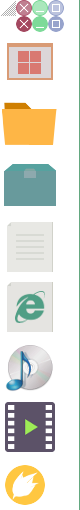
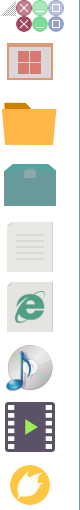
windows improved

Changed region(s): [[0.05, 0.9118, 0.625, 1.0]]

diff --git a/assets/js/desk-window.js b/assets/js/desk-window.js
@@ -1969,6 +1969,7 @@ DashWindow.prototype.createToolbar = function() {
                     }
                     this.body_view_list = false;
                     this.updateSidebarResizerSize();
+                    this.fixBodyItemsImages();
                     $(this.content).scrollTop(0);
                 }
             },{
@@ -1983,6 +1984,7 @@ DashWindow.prototype.createToolbar = function() {
                     }
                     this.body_view_list = true;
                     this.updateSidebarResizerSize();
+                    this.fixBodyItemsImages();
                     $(this.content).scrollTop(0);
                 }
             }
@@ -2414,46 +2416,77 @@ DashWindow.prototype.createBodyItems = function(elements) {
 };
 
 DashWindow.prototype.initBodyItemsImages = function() {
+    var wnd = this;
     $(this.content).find('img.'+this.body_item_images_class).each(function(){
         var image = this;
         var src = $(image).data('src');
-        $(this).unbind('load').load(function() {
+        $(this).unbind('load').load(wnd.bind(wnd, function() {
             $(image).css('opacity',1);
-            try {
-                var cw = $(image).width();
-                var ch = $(image).height();
-                var nw = $(image).get(0).naturalWidth;
-                var nh = $(image).get(0).naturalHeight;
-                var w, h, m;
-                if (cw/ch != nw/nh) {
-                    if (cw/ch < nw/nh) {
-                        w = cw;
-                        h = w * nh/nw;
-                        m = (ch - h) / 2;
-                        $(image).css({
-                            'width': w,
-                            'height': h,
-                            'marginTop': m,
-                            'marginBottom': m
-                        });
-                    } else {
-                        h = ch;
-                        w = h * nw/nh;
-                        m = (cw - w) / 2;
-                        $(image).css({
-                            'width': w,
-                            'height': h,
-                            'marginLeft': m,
-                            'marginRight': m,
-                        });
-                    }
-
-                }
-            } catch(err) {}
-        });
+            this.fixBodyItemsImage(image);
+        }));
+        $(image).css('transition','opacity .4s ease');
         $(image).css('opacity',0);
         $(image).attr('src', src);
     });
+};
+
+DashWindow.prototype.fixBodyItemsImages = function(image) {
+    var wnd = this;
+    $(this.content).find('img.'+this.body_item_images_class).each(function(){
+        wnd.fixBodyItemsImage(this);
+    });
+};
+
+DashWindow.prototype.fixBodyItemsImage = function(image) {
+    try {
+        $(image).css({
+            width: '',
+            height: ''
+        });
+        
+        var cw = $(image).width();
+        var ch = $(image).height();
+        var nw = $(image).get(0).naturalWidth;
+        var nh = $(image).get(0).naturalHeight;
+        
+        var wnd_body_item_image_fix_left = 8;
+        var wnd_body_item_image_fix_right = 8;
+        var wnd_body_item_image_fix_top = 8;
+        var wnd_body_item_image_fix_bottom = 8;
+        
+        if (this.body_view_list) {
+            wnd_body_item_image_fix_left = 2;
+            wnd_body_item_image_fix_right = 8;
+            wnd_body_item_image_fix_top = 0;
+            wnd_body_item_image_fix_bottom = 0;
+        }
+        
+        var w, h, m;
+        if (cw/ch != nw/nh) {
+            if (cw/ch < nw/nh) {
+                w = cw;
+                h = w * nh/nw;
+                m = (ch - h) / 2;
+                $(image).css({
+                    'width': w,
+                    'height': h,
+                    'marginTop': m+wnd_body_item_image_fix_top,
+                    'marginBottom': m+wnd_body_item_image_fix_bottom
+                });
+            } else {
+                h = ch;
+                w = h * nw/nh;
+                m = (cw - w) / 2;
+                $(image).css({
+                    'width': w,
+                    'height': h,
+                    'marginLeft': m+wnd_body_item_image_fix_left,
+                    'marginRight': m+wnd_body_item_image_fix_right
+                });
+            }
+
+        }
+    } catch(err) {}
 };
 
 DashWindow.prototype.bindBodyItemsCallbacks = function(elements) {

diff --git a/themes/bulaksu/assets/css/desk.css b/themes/bulaksu/assets/css/desk.css
@@ -639,7 +639,7 @@ body.dashboard-window-sidebar-resizing {
 .dashboard-window .dashboard-window-content .dashboard-body-content-wrapper ul.dashwindow-content-grid li a:link,
 .dashboard-window .dashboard-window-content .dashboard-body-content-wrapper ul.dashwindow-content-grid li a:visited {
     display: block;
-    padding: 13px;
+    padding: 5px;
     width: 86px;
     text-overflow: ellipsis;
     white-space: nowrap;
@@ -664,6 +664,7 @@ body.dashboard-window-sidebar-resizing {
     width: 60px;
     height: 60px;
     border: none;
+    margin: 8px;
 }
 .dashboard-window .dashboard-window-content .dashboard-body-content-wrapper ul.dashwindow-content-list li {
     display: block;
@@ -686,7 +687,7 @@ body.dashboard-window-sidebar-resizing {
 .dashboard-window .dashboard-window-content .dashboard-body-content-wrapper ul.dashwindow-content-list li img,
 .dashboard-window .dashboard-window-content .dashboard-body-content-wrapper ul.dashwindow-content-list .dashwindow-content-icon {
     float: left;
-    margin-right: 10px;
+    margin: 0px 10px 0px 0px;
 }
 .dashboard-window .dashboard-window-content .dashboard-body-content-wrapper ul.dashwindow-content-list li.dashwindow-content-column-row a:link,
 .dashboard-window .dashboard-window-content .dashboard-body-content-wrapper ul.dashwindow-content-list li.dashwindow-content-column-row a:visited {
@@ -725,7 +726,7 @@ body.dashboard-window-sidebar-resizing {
     background-position: 0px -397px;
 }
 .dashboard-window .dashboard-window-content .dashboard-body-content-wrapper .dashwindow-content-icon-zira {
-    background-position: 0px -456px;
+    background-position: 0px -454px;
 }
 .dashboard-window .dashboard-window-content .dashboard-body-content-wrapper .dashwindow-content-icon-blank {
     background: none;

diff --git a/themes/dark/assets/css/desk.css b/themes/dark/assets/css/desk.css
@@ -639,7 +639,7 @@ body.dashboard-window-sidebar-resizing {
 .dashboard-window .dashboard-window-content .dashboard-body-content-wrapper ul.dashwindow-content-grid li a:link,
 .dashboard-window .dashboard-window-content .dashboard-body-content-wrapper ul.dashwindow-content-grid li a:visited {
     display: block;
-    padding: 13px;
+    padding: 5px;
     width: 86px;
     text-overflow: ellipsis;
     white-space: nowrap;
@@ -664,6 +664,7 @@ body.dashboard-window-sidebar-resizing {
     width: 60px;
     height: 60px;
     border: none;
+    margin: 8px;
 }
 .dashboard-window .dashboard-window-content .dashboard-body-content-wrapper ul.dashwindow-content-list li {
     display: block;
@@ -686,7 +687,7 @@ body.dashboard-window-sidebar-resizing {
 .dashboard-window .dashboard-window-content .dashboard-body-content-wrapper ul.dashwindow-content-list li img,
 .dashboard-window .dashboard-window-content .dashboard-body-content-wrapper ul.dashwindow-content-list .dashwindow-content-icon {
     float: left;
-    margin-right: 10px;
+    margin: 0px 10px 0px 0px;
 }
 .dashboard-window .dashboard-window-content .dashboard-body-content-wrapper ul.dashwindow-content-list li.dashwindow-content-column-row a:link,
 .dashboard-window .dashboard-window-content .dashboard-body-content-wrapper ul.dashwindow-content-list li.dashwindow-content-column-row a:visited {
@@ -725,7 +726,7 @@ body.dashboard-window-sidebar-resizing {
     background-position: 0px -397px;
 }
 .dashboard-window .dashboard-window-content .dashboard-body-content-wrapper .dashwindow-content-icon-zira {
-    background-position: 0px -456px;
+    background-position: 0px -454px;
 }
 .dashboard-window .dashboard-window-content .dashboard-body-content-wrapper .dashwindow-content-icon-blank {
     background: none;

diff --git a/themes/default/assets/css/desk.css b/themes/default/assets/css/desk.css
@@ -632,7 +632,7 @@ body.dashboard-window-sidebar-resizing {
 .dashboard-window .dashboard-window-content .dashboard-body-content-wrapper ul.dashwindow-content-grid li a:link,
 .dashboard-window .dashboard-window-content .dashboard-body-content-wrapper ul.dashwindow-content-grid li a:visited {
     display: block;
-    padding: 13px;
+    padding: 5px;
     width: 86px;
     text-overflow: ellipsis;
     white-space: nowrap;
@@ -657,6 +657,7 @@ body.dashboard-window-sidebar-resizing {
     width: 60px;
     height: 60px;
     border: none;
+    margin: 8px;
 }
 .dashboard-window .dashboard-window-content .dashboard-body-content-wrapper ul.dashwindow-content-list li {
     display: block;
@@ -679,7 +680,7 @@ body.dashboard-window-sidebar-resizing {
 .dashboard-window .dashboard-window-content .dashboard-body-content-wrapper ul.dashwindow-content-list li img,
 .dashboard-window .dashboard-window-content .dashboard-body-content-wrapper ul.dashwindow-content-list .dashwindow-content-icon {
     float: left;
-    margin-right: 10px;
+    margin: 0px 10px 0px 0px;
 }
 .dashboard-window .dashboard-window-content .dashboard-body-content-wrapper ul.dashwindow-content-list li.dashwindow-content-column-row a:link,
 .dashboard-window .dashboard-window-content .dashboard-body-content-wrapper ul.dashwindow-content-list li.dashwindow-content-column-row a:visited {
@@ -718,7 +719,7 @@ body.dashboard-window-sidebar-resizing {
     background-position: 0px -397px;
 }
 .dashboard-window .dashboard-window-content .dashboard-body-content-wrapper .dashwindow-content-icon-zira {
-    background-position: 0px -456px;
+    background-position: 0px -454px;
 }
 .dashboard-window .dashboard-window-content .dashboard-body-content-wrapper .dashwindow-content-icon-blank {
     background: none;

diff --git a/themes/bulaksu/zira/widgets/carousel.php b/themes/bulaksu/zira/widgets/carousel.php
@@ -3,16 +3,13 @@
 <?php if (!empty($title)): ?>
 <h2><?php echo Zira\Helper::html($title) ?></h2>
 <?php endif; ?>
+<?php $id = uniqid('carousel_'); ?>
 <ul class="carousel<?php if (!empty($sidebar)) echo ' carousel-small'; ?>">
 <?php foreach($images as $index=>$image): ?>
 <li>
-<?php if (!empty($links[$index])): ?>
-<a href="<?php echo Zira\Helper::html(Zira\Menu::parseURL($links[$index])); ?>" title="<?php echo !empty($descriptions[$index]) ? Zira\Helper::html($descriptions[$index]) : '' ?>">
-<?php endif; ?>
-<img class="image<?php if (empty($links[$index])) echo ' zira-lightbox'; ?>" src="<?php echo Zira\Helper::baseUrl(Zira\Image::getCustomThumbUrl($image, Zira\Config::get('carousel_thumbs_width', Zira\Config::get('thumbs_width')), Zira\Config::get('carousel_thumbs_height', Zira\Config::get('thumbs_height')))) ?>" title="<?php echo !empty($descriptions[$index]) ? Zira\Helper::html($descriptions[$index]) : '' ?>" alt="<?php echo !empty($descriptions[$index]) ? Zira\Helper::html($descriptions[$index]) : '' ?>" />
-<?php if (!empty($links[$index])): ?>
+<a href="<?php echo !empty($links[$index]) ? Zira\Helper::html(Zira\Menu::parseURL($links[$index])) : Zira\Helper::baseUrl(zira\Helper::urlencode($image)); ?>" title="<?php echo !empty($descriptions[$index]) ? Zira\Helper::html($descriptions[$index]) : '' ?>"<?php if (empty($links[$index])) echo ' data-lightbox="'.Zira\Helper::html($id).'"'; ?>>
+<img class="image" src="<?php echo Zira\Helper::baseUrl(Zira\Image::getCustomThumbUrl($image, Zira\Config::get('carousel_thumbs_width', Zira\Config::get('thumbs_width')), Zira\Config::get('carousel_thumbs_height', Zira\Config::get('thumbs_height')))) ?>" title="<?php echo !empty($descriptions[$index]) ? Zira\Helper::html($descriptions[$index]) : '' ?>" alt="<?php echo !empty($descriptions[$index]) ? Zira\Helper::html($descriptions[$index]) : '' ?>" />
 </a>
-<?php endif; ?>
 </li>
 <?php endforeach; ?>
 </ul>

diff --git a/themes/dark/zira/widgets/carousel.php b/themes/dark/zira/widgets/carousel.php
@@ -3,16 +3,13 @@
 <?php if (!empty($title)): ?>
 <h2><?php echo Zira\Helper::html($title) ?></h2>
 <?php endif; ?>
+<?php $id = uniqid('carousel_'); ?>
 <ul class="carousel<?php if (!empty($sidebar)) echo ' carousel-small'; ?>">
 <?php foreach($images as $index=>$image): ?>
 <li>
-<?php if (!empty($links[$index])): ?>
-<a href="<?php echo Zira\Helper::html(Zira\Menu::parseURL($links[$index])); ?>" title="<?php echo !empty($descriptions[$index]) ? Zira\Helper::html($descriptions[$index]) : '' ?>">
-<?php endif; ?>
-<img class="image<?php if (empty($links[$index])) echo ' zira-lightbox'; ?>" src="<?php echo Zira\Helper::baseUrl(Zira\Image::getCustomThumbUrl($image, Zira\Config::get('carousel_thumbs_width', Zira\Config::get('thumbs_width')), Zira\Config::get('carousel_thumbs_height', Zira\Config::get('thumbs_height')))) ?>" title="<?php echo !empty($descriptions[$index]) ? Zira\Helper::html($descriptions[$index]) : '' ?>" alt="<?php echo !empty($descriptions[$index]) ? Zira\Helper::html($descriptions[$index]) : '' ?>" />
-<?php if (!empty($links[$index])): ?>
+<a href="<?php echo !empty($links[$index]) ? Zira\Helper::html(Zira\Menu::parseURL($links[$index])) : Zira\Helper::baseUrl(zira\Helper::urlencode($image)); ?>" title="<?php echo !empty($descriptions[$index]) ? Zira\Helper::html($descriptions[$index]) : '' ?>"<?php if (empty($links[$index])) echo ' data-lightbox="'.Zira\Helper::html($id).'"'; ?>>
+<img class="image" src="<?php echo Zira\Helper::baseUrl(Zira\Image::getCustomThumbUrl($image, Zira\Config::get('carousel_thumbs_width', Zira\Config::get('thumbs_width')), Zira\Config::get('carousel_thumbs_height', Zira\Config::get('thumbs_height')))) ?>" title="<?php echo !empty($descriptions[$index]) ? Zira\Helper::html($descriptions[$index]) : '' ?>" alt="<?php echo !empty($descriptions[$index]) ? Zira\Helper::html($descriptions[$index]) : '' ?>" />
 </a>
-<?php endif; ?>
 </li>
 <?php endforeach; ?>
 </ul>

diff --git a/themes/default/zira/widgets/carousel.php b/themes/default/zira/widgets/carousel.php
@@ -3,16 +3,13 @@
 <?php if (!empty($title)): ?>
 <h2><?php echo Zira\Helper::html($title) ?></h2>
 <?php endif; ?>
+<?php $id = uniqid('carousel_'); ?>
 <ul class="carousel<?php if (!empty($sidebar)) echo ' carousel-small'; ?>">
 <?php foreach($images as $index=>$image): ?>
 <li>
-<?php if (!empty($links[$index])): ?>
-<a href="<?php echo Zira\Helper::html(Zira\Menu::parseURL($links[$index])); ?>" title="<?php echo !empty($descriptions[$index]) ? Zira\Helper::html($descriptions[$index]) : '' ?>">
-<?php endif; ?>
-<img class="image<?php if (empty($links[$index])) echo ' zira-lightbox'; ?>" src="<?php echo Zira\Helper::baseUrl(Zira\Image::getCustomThumbUrl($image, Zira\Config::get('carousel_thumbs_width', Zira\Config::get('thumbs_width')), Zira\Config::get('carousel_thumbs_height', Zira\Config::get('thumbs_height')))) ?>" title="<?php echo !empty($descriptions[$index]) ? Zira\Helper::html($descriptions[$index]) : '' ?>" alt="<?php echo !empty($descriptions[$index]) ? Zira\Helper::html($descriptions[$index]) : '' ?>" />
-<?php if (!empty($links[$index])): ?>
+<a href="<?php echo !empty($links[$index]) ? Zira\Helper::html(Zira\Menu::parseURL($links[$index])) : Zira\Helper::baseUrl(zira\Helper::urlencode($image)); ?>" title="<?php echo !empty($descriptions[$index]) ? Zira\Helper::html($descriptions[$index]) : '' ?>"<?php if (empty($links[$index])) echo ' data-lightbox="'.Zira\Helper::html($id).'"'; ?>>
+<img class="image" src="<?php echo Zira\Helper::baseUrl(Zira\Image::getCustomThumbUrl($image, Zira\Config::get('carousel_thumbs_width', Zira\Config::get('thumbs_width')), Zira\Config::get('carousel_thumbs_height', Zira\Config::get('thumbs_height')))) ?>" title="<?php echo !empty($descriptions[$index]) ? Zira\Helper::html($descriptions[$index]) : '' ?>" alt="<?php echo !empty($descriptions[$index]) ? Zira\Helper::html($descriptions[$index]) : '' ?>" />
 </a>
-<?php endif; ?>
 </li>
 <?php endforeach; ?>
 </ul>

diff --git a/dash/windows/files.php b/dash/windows/files.php
@@ -350,7 +350,7 @@ class Files extends Window {
                 } else if (self::is_html($file)) {
                     $bodyItems[]=$this->createBodyFileItem($filename, $filename, $root . DIRECTORY_SEPARATOR . $file, $this->get_body_item_callback_js(), false, array('type'=>'html', 'parent'=>'files'), $fsize);
                 } else if (self::is_widget($file)) {
-                    $bodyItems[]=$this->createBodyFileItem($filename, $filename, $root . DIRECTORY_SEPARATOR . $file, $this->get_body_item_callback_js(), false, array('type'=>'file', 'parent'=>'files', 'is_widget'=>true), $fsize);
+                    $bodyItems[]=$this->createBodyFileItem($filename, $filename, $root . DIRECTORY_SEPARATOR . $file, $this->get_body_item_callback_js(), false, array('type'=>'zira', 'parent'=>'files', 'is_widget'=>true), $fsize);
                 } else {
                     $bodyItems[]=$this->createBodyFileItem($filename, $filename, $root . DIRECTORY_SEPARATOR . $file, $this->get_body_item_callback_js(), false, array('type'=>'file', 'parent'=>'files'), $fsize);
                 }

diff --git a/zira/widgets/carousel.php b/zira/widgets/carousel.php
@@ -62,9 +62,13 @@ class Carousel extends Zira\Widget {
             
             if (is_array($data->descriptions) && array_key_exists(Zira\Helper::urlencode($image), $data->descriptions)) {
                 $descriptions []= $data->descriptions[Zira\Helper::urlencode($image)];
+            } else {
+                $descriptions []= '';
             }
             if (is_array($data->links) && array_key_exists(Zira\Helper::urlencode($image), $data->links)) {
                 $links []= $data->links[Zira\Helper::urlencode($image)];
+            } else {
+                $links []= '';
             }
         }
         closedir($d);
